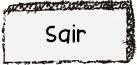
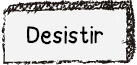
Botao desistir no menu

Changed region(s): [[0.1752, 0.3692, 0.7591, 0.7077]]

diff --git a/js/controle.js b/js/controle.js
@@ -1245,7 +1245,7 @@ function setaFoco(){
 			}
 			else if(opcao == 3){
 				document.getElementById("opcaoMenu").focus();
-				realizarLeitura("Sair");
+				realizarLeitura("Desistir");
 			}
 		break;
 	}
